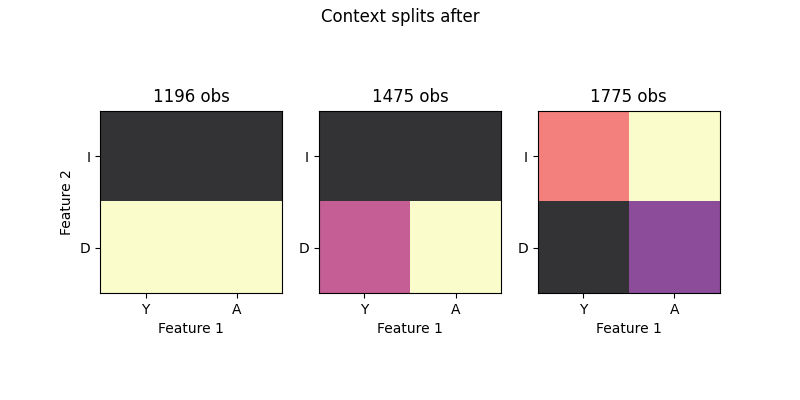
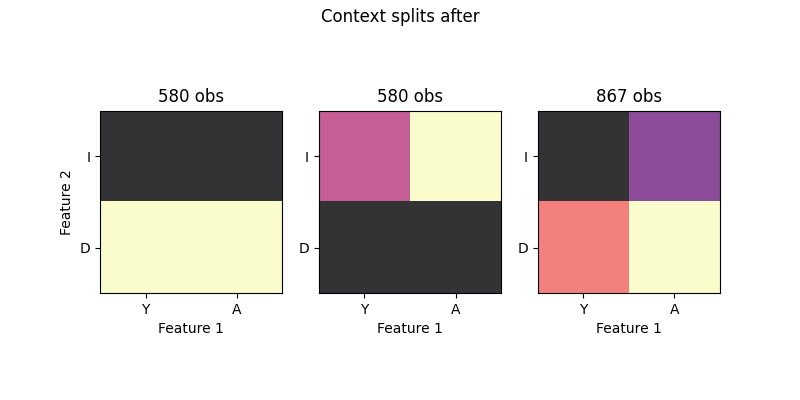
fix exp 4, started exp 7

Changed region(s): [[0.6562, 0.21, 0.9062, 0.75], [0.375, 0.21, 0.625, 0.75], [0.1875, 0.21, 0.2812, 0.27]]

diff --git a/experiments/experiment_7.py b/experiments/experiment_7.py
@@ -1,2 +1,117 @@
+from pricing import PersonGenerator
+import numpy as np
+import matplotlib.pyplot as plt
+
+from configmanager import ConfigManager
+from tqdm import tqdm
+
+from environment import PricingEnvironment, BiddingEnvironment, SpecificEnvironment
+from context import ContextGenerator
+from learners import *
+from scipy.stats import norm, beta
+
+
+
 class Experiment7():
-    pass
+    
+    def __init__(self):
+        self.cm = ConfigManager()
+
+        # pricing
+        self.prices = np.array(self.cm.prices) # candidates
+
+        self.p = self.cm.aggr_conv_rates()
+        self.n_arms = len(self.prices) #p = cm.aggr_conv_rates()
+
+        self.opt_pricing = np.max(np.multiply(self.p, self.prices)) 
+        
+        # bidding 
+        self.bids = np.array(self.cm.bids)
+        self.sigma = 10
+        
+        # self.means = self.cm.new_clicks(self.bids)
+        self.means = self.cm.aggregated_new_clicks_function_mean(self.bids, self.num_people)
+        self.sigmas = self.cm.aggregated_new_clicks_function_sigma(self.bids, self.num_people)
+
+        self.opt = np.max(self.means * (self.opt_pricing - self.cm.mean_cc(self.bids)))
+        indice = np.argmax(self.means * (self.opt_pricing - self.cm.mean_cc(self.bids)))
+
+        print(self.means[indice])
+        print(self.opt_pricing)
+        print(self.cm.mean_cc(self.bids)[indice])
+        
+        self.gpts_reward_per_experiment = []
+        self.p_arms = []
+
+        self.ts_reward_per_experiments = []
+
+        self.T = 200 # number of days
+        self.n_experiments = 8
+
+    def run(self):
+
+        self.rewards_full = []
+        pg = PersonGenerator()
+
+        for e in tqdm(range(0, self.n_experiments)):
+
+            env = SpecificEnvironment(n_arms=self.n_arms, candidates=self.prices)
+            penv = PricingEnvironment(n_arms=self.n_arms, probabilities=self.p, candidates=self.prices)
+            benv = BiddingEnvironment(self.bids, self.means, self.sigmas)
+            
+            context_gen = ContextGenerator(self.n_arms, self.classes, self.features, self.prices)
+
+            ts_learner = TS_Learner(n_arms=self.n_arms, candidates=self.prices)
+            gpts_learner = GPTS_learner_positive(n_arms=self.n_arms, arms=self.bids, threshold=0.2)
+
+            rewards_this = []
+
+            for t in range(0,self.T): # 1 round is one day
+
+                context_gen.generate() 
+                num_people = pg.generate_people_num()
+
+                for _ in range(num_people): # p is a class e.g. ["Y", "I"], usually called user_class
+                    
+                    p_class, p_labels = pg.generate_person()
+                
+                    pulled_arm, _ = context_gen.pull_arm(p_labels)
+                    reward = env.round(pulled_arm, p_class)
+
+                    current_opt = np.max(np.multiply(self.cm.conv_rates[p_class], self.prices))
+
+                    new_obs = [p_labels, pulled_arm, reward]
+                    context_gen.update(new_obs)
+
+                    pulled_price, price_value = context_gen.pull_arm()
+                    price = self.prices[pulled_price]
+
+                    pulled_bid = gpts_learner.pull_arm(price_value)
+                    
+                    news, cost = benv.round(pulled_bid)
+                    buyer = penv.round(pulled_price, news)
+
+                    reward = buyer*price - cost
+
+                    not_buyer = news - buyer
+                    
+                    ts_learner.update_more(pulled_price, reward, buyer, not_buyer)
+                    gpts_learner.update(pulled_bid, news)
+
+                    rewards_this.append(reward)
+            
+            self.rewards_full.append(rewards_this)
+
+    def plot(self):
+        #sns.distplot(np.array(p_arms))
+
+        plt.figure(0)
+        plt.ylabel('Regret')
+        plt.xlabel('t')
+        plt.plot(np.cumsum(np.mean(self.opt - self.rewards_full, axis = 0)),'g', label="GPTS")
+        plt.legend(loc=0)
+        plt.grid(True, color='0.6', dashes=(5, 2, 1, 2))
+        plt.savefig("img/experiments/experiment_6.png")
+
+        #plt.show()
+

diff --git a/context.py b/context.py
@@ -13,9 +13,6 @@ class Context():
     subspace is expressed as an array of tuple [['Y', 'I'],...]
     """
 
-    # TODO: domanda, se io ho 3 context, al round x pullo i 3 context, quindi devo 
-    # mandare all'arm pullato (il prezzo) tutte le persone appartenenti alla classe del context?
-
     def __init__(self, id, learner, classes, obs):
         """
         id: is the context identifier
@@ -156,9 +153,14 @@ class ContextGenerator():
         """
         selected_obs = []
         for o in self.obs:
-            for c in classes:
-                if c[0] in o[0] and c[1] in o[0]:
-                    selected_obs.append(o)
+            if o[0] in classes:
+                selected_obs.append(o)
+            #for c in classes:
+            #    # if one of the classes is equal to the observed class
+            #    if (c[0] in o[0]) and (c[1] in o[0]):
+            #        #print(f'o[0] = {o[0]}')
+            #        #print(f'c = {c}')
+            #        selected_obs.append(o) 
         return selected_obs 
     
     def generate(self):
@@ -234,15 +236,8 @@ class ContextGenerator():
         for c in self.contexts:
             reward += c.learner.collected_rewards
         return reward
-
-    def retrieve_obs(self, classes):
-        new_obs = []
-        for o in self.obs:
-            for c in classes:
-                if o[0] in c:
-                    new_obs.append(o)
-        return new_obs
     
+    # function to plot the contexts 
     def add_context_color_matrix(self):
         color = 0
         class_colors = {}

diff --git a/experiments/experiment_4.py b/experiments/experiment_4.py
@@ -27,7 +27,7 @@ class Experiment4():
         self.opt = np.max(np.multiply(self.p, self.prices)) 
 
         self.T = 360 # number of days
-        self.n_experiments = 10
+        self.n_experiments = 15
 
         self.reward_log = []
         self.reward_per_experiments = []
@@ -50,16 +50,15 @@ class Experiment4():
             for t in range(0,self.T): # 1 round is one day
                 logging.debug(f'Experiment4.run() -> step {t} / {self.T}')
 
-                #if t>20:
                 context_gen.generate() 
-
-                people = pg.generate_people()
+                num_people = pg.generate_people_num()
+                #people = pg.generate_people()
                 daily_reward = 0
                 daily_regret = 0
 
-                for person in people: # p is a class e.g. ["Y", "I"], usually called user_class
+                for _ in range(num_people): # p is a class e.g. ["Y", "I"], usually called user_class
                     
-                    p_class, p_labels = person
+                    p_class, p_labels = pg.generate_person()
                 
                     pulled_arm, _ = context_gen.pull_arm(p_labels)
                     reward = env.round(pulled_arm, p_class)

diff --git a/learners.py b/learners.py
@@ -163,21 +163,15 @@ class TS_Learner(Learner):
 
         opt_arm = self.optimal_arm()
         exp_val = self.success_prob(opt_arm)   
-
-        #logging.debug(f'TS_Learner.expected_value_lowerbound() -> opt arm: {opt_arm}, exp_val: {exp_val}')
-
         # Hoeffding bound
-        # TODO: NB: change self.t with len(obs) if we want to use
         # TODO: chenage n_obs with n_obs of the optimal arm only
         # more observations per day
         
         confidence = np.log(0.005)
+        #confidence = self.success_prob(opt_arm) / (1 + self.success_prob(opt_arm))
 
         # TODO: fix the lower bound, it doesn't work
-        #lb = exp_val - np.sqrt(-np.log(alpha) / (self.t + 1))
-        #logging.error(f'TS_Learner.expected_value_lower_bound() -> error in lower bound computation: {lb}')
-        #confidence = self.success_prob(opt_arm) / (1 + self.success_prob(opt_arm)) 
-        lb = exp_val - np.sqrt(- confidence / (2*self.t) + 0.001)
+        lb = exp_val - np.sqrt(- confidence / 2*self.t)
         logging.debug(f'TS_learner.expected_value_lowerbound() -> lb: {lb}, self.t {self.t}')
 
         return lb * self.candidates[opt_arm]

diff --git a/test.py b/test.py
@@ -35,7 +35,14 @@ print(cm.conv_rate)
 print(cm.conv_rate[0])
 print(cm.aggr_conv_rates([0,1]))
 
-'''
+
 arr1 = [10, 23, 30]
 arr2 = [20, 40, 90]
 print(np.cumsum(np.mean(100 - arr1)))
+
+'''
+
+classes = [["Y", "I"], ["Y", "D"], ["A", "I"], ["A", "D"]]
+prova = ["Y", "I"]
+if prova in classes:
+    print('ok')
